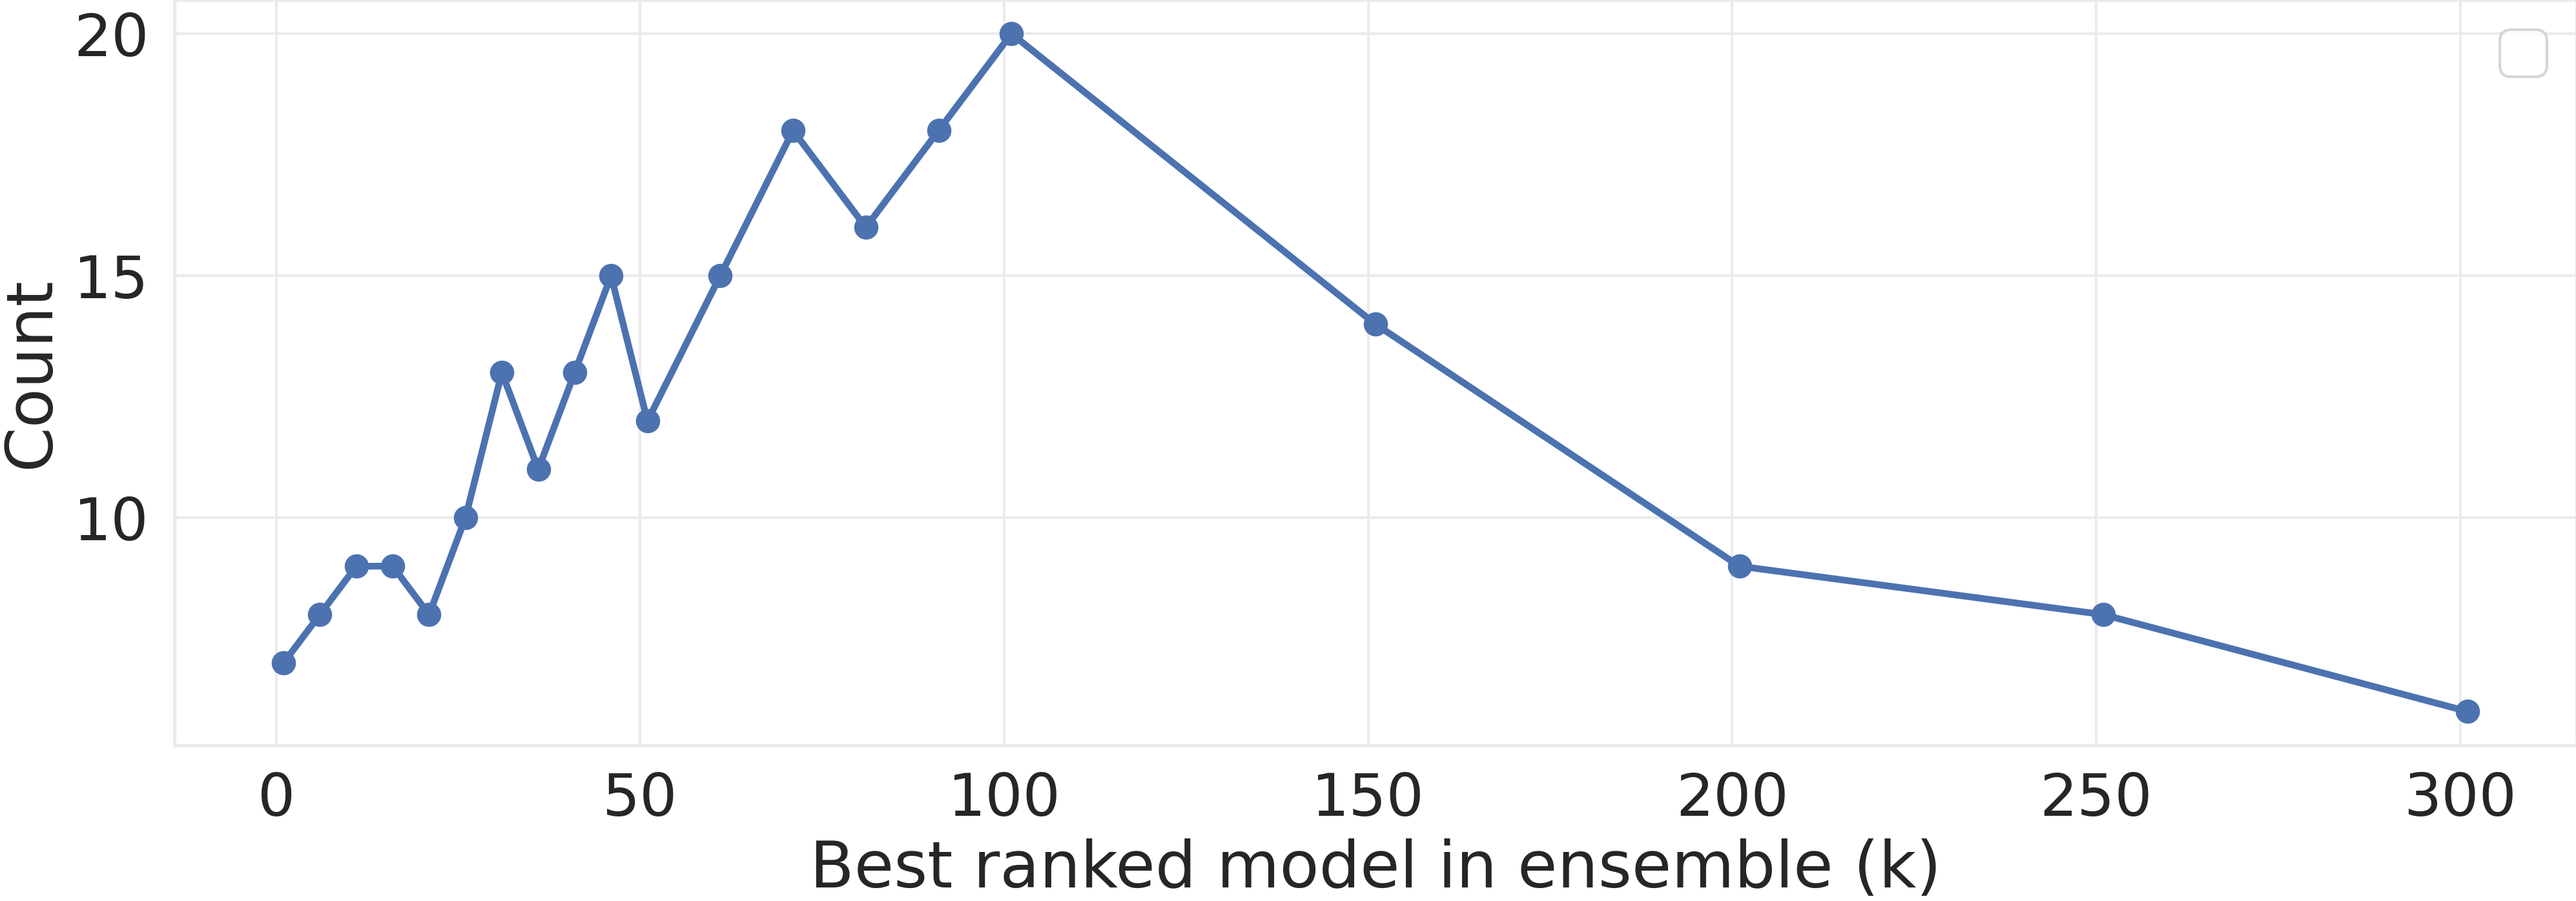
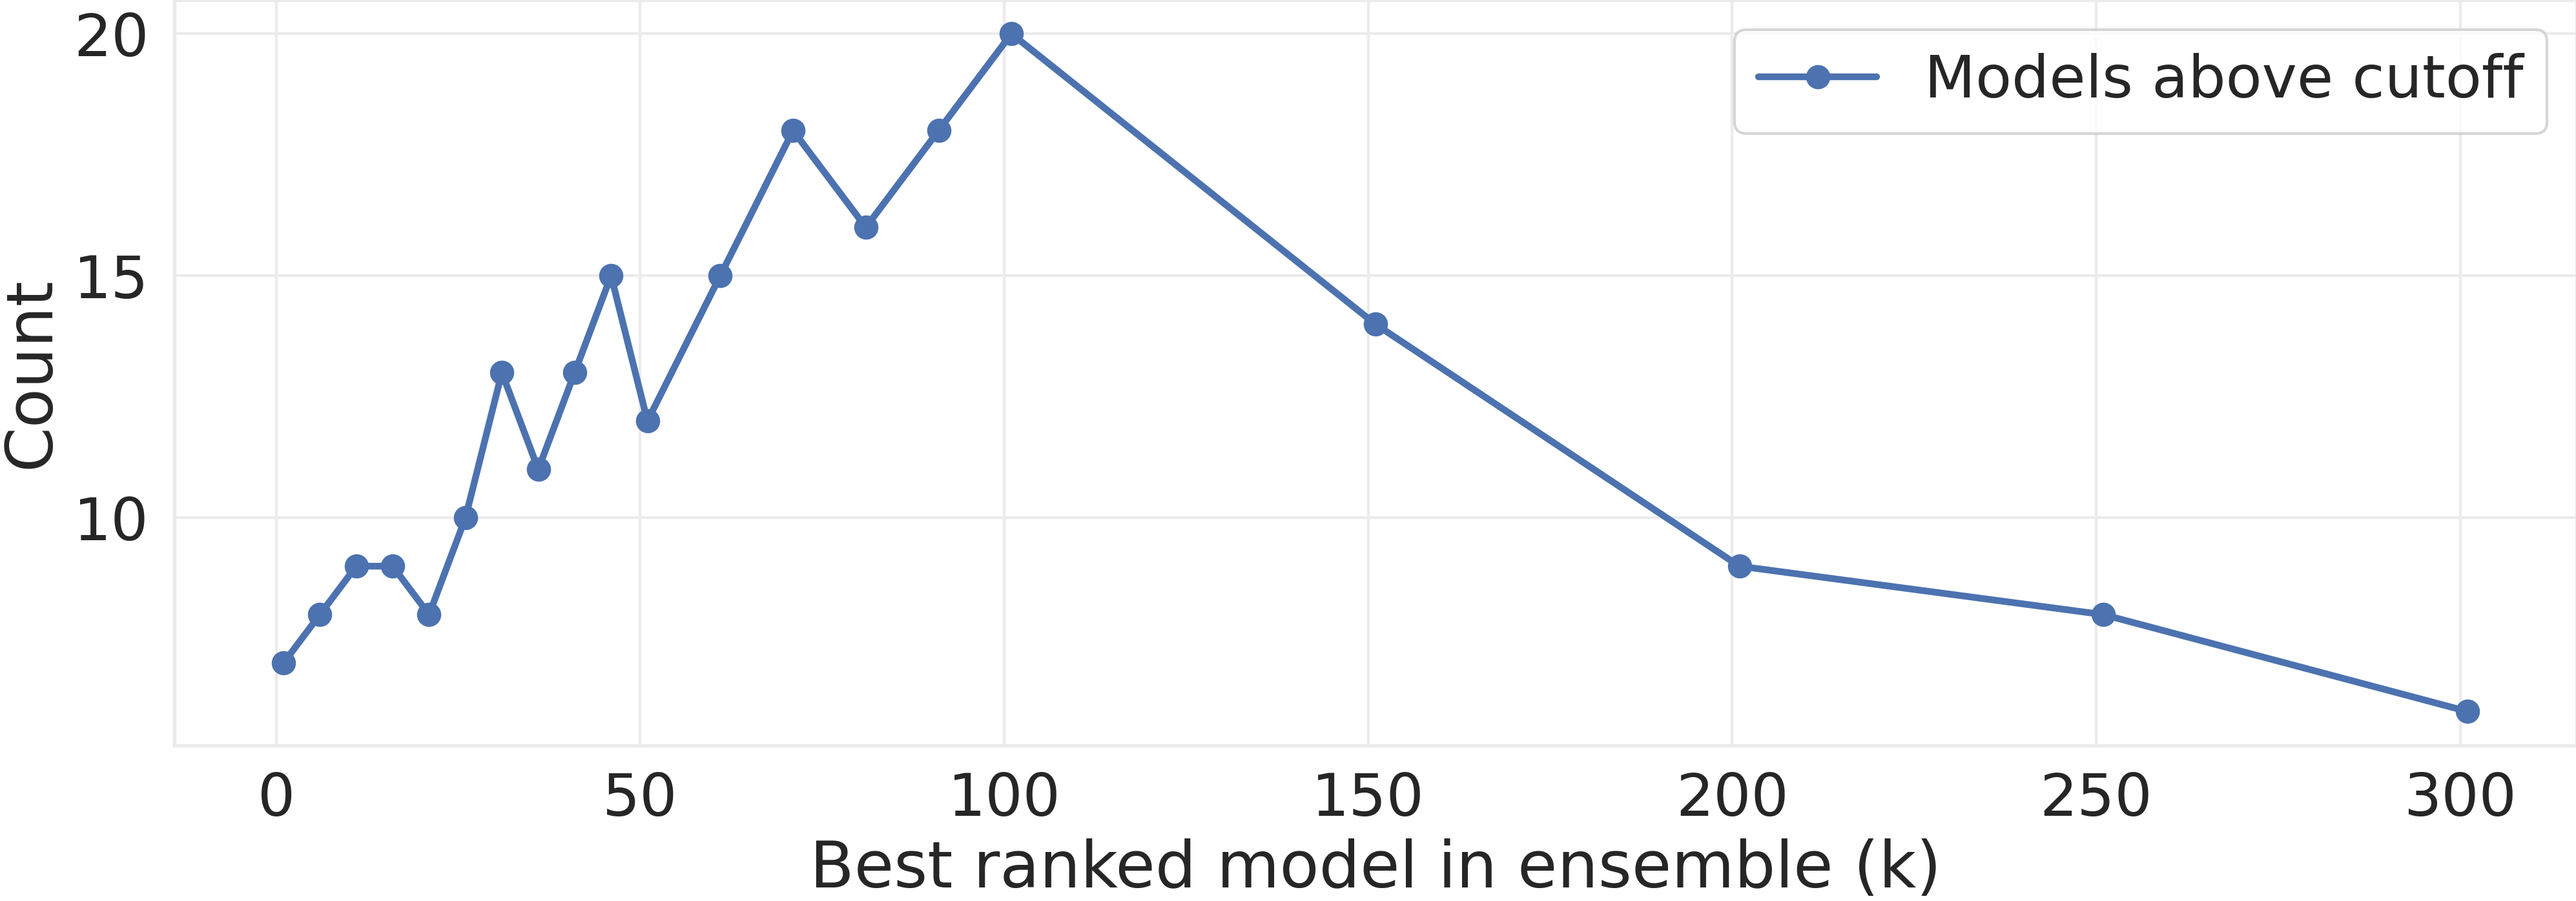
Reworked design of plots slightly

Changed region(s): [[0.6839, 0.0616, 0.9947, 0.1232]]

diff --git a/analysis/make_auxiliary_plots.py b/analysis/make_auxiliary_plots.py
@@ -165,7 +165,8 @@ def plot_submissions_per_day(df, filename):
     # Get submissions per day (ignore first day)
     df = df.resample('D').apply({'Score':'count'})[1:]
 
-    plt.plot(df.index, df.Score, "-o", markersize=8)
+    plt.plot(df.index, df.Score, "-o", markersize=8, label="Submissions per day")
+    plt.legend()
     format_and_save(plt.gca(), filename, ylabel="Count", ylim=None)
 
 def plot_exponential_fits(df, filename):
@@ -430,10 +431,11 @@ def plot_n_contrib_ensemble(n_contrib, filename):
     plt.figure(figsize=(16,5))
     x_grid = np.asarray([0,5,10,15,20,25,30,35,40,45,50,
         60, 70, 80, 90, 100, 150, 200, 250, 300]) + 1
-    plt.plot(x_grid, n_contrib, "o-", markersize=8)
+    plt.plot(x_grid, n_contrib, "o-", markersize=8, label="Models above cutoff")
 
     ax = plt.gca()
     ax.set(xlabel="Best ranked model in ensemble (k)", ylabel="Count")
+    plt.legend()
     plt.savefig(filename, pad_inches=0.0, bbox_inches="tight", dpi=300)
     plt.clf()
 
